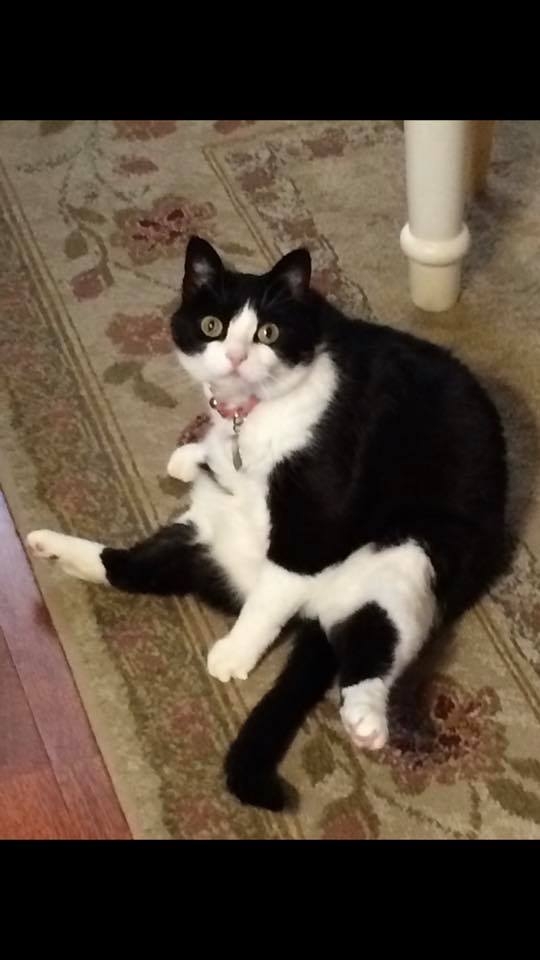
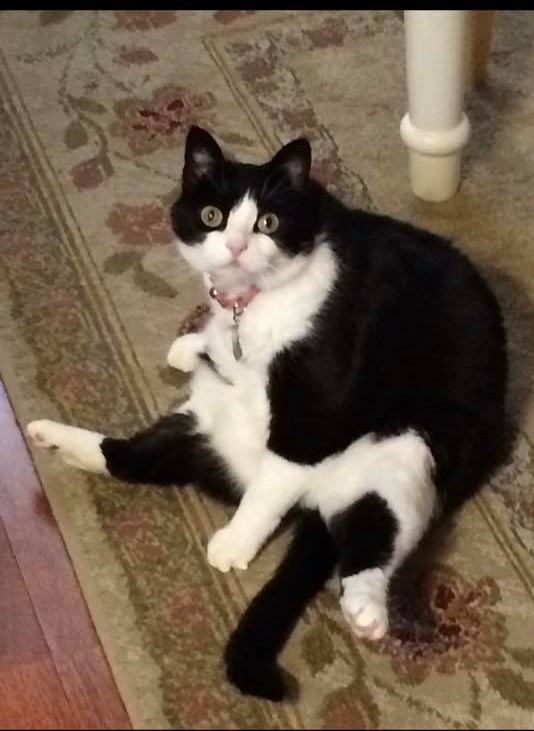
Cropped picture of mama.jpg and added a few extra lines to README.md

diff --git a/README.md b/README.md
@@ -8,10 +8,11 @@
 This repository will have a sprinkle about myself but the main focus will be teaching the reader what tools and resources they can reference during their adventures through website development.
 ## Recommended Tools
 First things first...I'm the realest (had to drop a 2014 meme on you)
-![Iggy Azalea](https://media.giphy.com/media/vFQ6PiXr6mMxO/giphy.gif)<br/>
-Credit: [Giphy](https://www.google.com/url?sa=i&source=images&cd=&cad=rja&uact=8&ved=2ahUKEwijsfnppabkAhUHXa0KHZWoCJ4QjRx6BAgBEAQ&url=%2Furl%3Fsa%3Di%26source%3Dimages%26cd%3D%26ved%3D%26url%3Dhttps%253A%252F%252Fgiphy.com%252Fgifs%252Figgy-azalea-vFQ6PiXr6mMxO%26psig%3DAOvVaw1N9NSugnFZBbroOEg_yhXu%26ust%3D1567106701534786&psig=AOvVaw1N9NSugnFZBbroOEg_yhXu&ust=1567106701534786)<br/>
-URL: https://www.google.com/url?sa=i&source=images&cd=&cad=rja&uact=8&ved=2ahUKEwijsfnppabkAhUHXa0KHZWoCJ4QjRx6BAgBEAQ&url=%2Furl%3Fsa%3Di%26source%3Dimages%26cd%3D%26ved%3D%26url%3Dhttps%253A%252F%252Fgiphy.com%252Fgifs%252Figgy-azalea-vFQ6PiXr6mMxO%26psig%3DAOvVaw1N9NSugnFZBbroOEg_yhXu%26ust%3D1567106701534786&psig=AOvVaw1N9NSugnFZBbroOEg_yhXu&ust=1567106701534786
-<br/>If you do not understand this reference, please leave this repo immediately and check out this iconic [song](https://www.youtube.com/watch?v=O-zpOMYRi0w). 
+![Iggy Azalea](http://24.media.tumblr.com/9499e538437830c45818c5eb563a6f49/tumblr_n63sci2c1H1r65oxko1_r2_500.gif)<br/>
+Credit: [Tumblr](http://rebloggy.com/post/gif-mine-edit-fancy-clueless-iggy-azalea-cher-horowitz/86739508353)<br/>
+URL: http://rebloggy.com/post/gif-mine-edit-fancy-clueless-iggy-azalea-cher-horowitz/86739508353
+
+If you do not understand this reference, please leave this repo immediately and check out this iconic [song](https://www.youtube.com/watch?v=O-zpOMYRi0w). 
 
 Okay, back to reality, first things first, if you want to publish a simple GitHub page for the world to view you will need a few things:
 ### Tools
@@ -53,6 +54,7 @@ My name is Ashley Stanbridge and I am a senior at Northwest Missouri State Unive
 ![Mama and I](pic-for-GitHub-page.jpg)
 
 Just because I know how much the Internet loves cats, here's another pic of the legend kitty in a perfectly normal and not odd position at all.
+
 <br/>![Mama Cita](mama.jpg)
 
 You're welcome!
